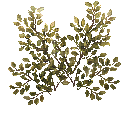
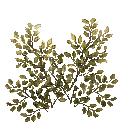
added a different color for euro beech

diff --git a/CityBuildingGame/rendering/renderer.h b/CityBuildingGame/rendering/renderer.h
@@ -31,6 +31,7 @@ public:
 	InstancedModel* instanced_model_pine;
 	InstancedModel* instanced_model_toona;
 	InstancedModel* instanced_model_euroBeech;
+	InstancedModel* instanced_model_euroBeech2;
 	InstancedModel* instanced_model_oak;
 	InstancedModel* instanced_model_dwelling;
 	InstancedModel* instanced_model_lumberjack_hut;
@@ -72,10 +73,11 @@ public:
 		model_path = Path + "/../models/toona/toona.dae";
 		instanced_model_toona = new InstancedModel(model_path);
 
-		//model_path = Path + "/../models/euroBeech/euroBeech.dae";
-		//instanced_model_euroBeech = new InstancedModel(model_path);
 		model_path = Path + "/../models/euro_beech/euro_beech.dae";
 		instanced_model_euroBeech = new InstancedModel(model_path);
+
+		model_path = Path + "/../models/euro_beech/euro_beech2.dae";
+		instanced_model_euroBeech2 = new InstancedModel(model_path);
 
 		model_path = Path + "/../models/oak/oak.dae";
 		instanced_model_oak = new InstancedModel(model_path);
@@ -202,6 +204,7 @@ private:
 		instanced_model_pine->Draw(*shader, renderBuffer->pineModels);
 		instanced_model_oak->Draw(*shader, renderBuffer->oakModels);
 		instanced_model_euroBeech->Draw(*shader, renderBuffer->euroBeechModels);
+		instanced_model_euroBeech2->Draw(*shader, renderBuffer->euroBeech2Models);
 		instanced_model_toona->Draw(*shader, renderBuffer->toonaModels);
 		instanced_model_lumberjack_hut->Draw(*shader, renderBuffer->lumberjackHutModels);
 		instanced_model_dwelling->Draw(*shader, renderBuffer->dwellingModels_growth1);

diff --git a/CityBuildingGame/terrain/map_generator.cpp b/CityBuildingGame/terrain/map_generator.cpp
@@ -175,11 +175,22 @@ void MapGenerator::generateTrees()
 			}
 			else if (chosenTree <= 2 && isEuroBeech)
 			{
-				grid->gridUnits[i][j]->objects.push_back(
-					new EuroBeech(glm::vec3(posX, posY, grid->GetHeight(posX, posY)),
-					           glm::vec3(scale * TREE_SCALE_FACTOR, scale * TREE_SCALE_FACTOR,
-					                     scale * TREE_SCALE_FACTOR),
-					           glm::vec3(1.5707963f, 0, rotation(gen))));
+				float which_model_rand = static_cast <float> (rand()) / static_cast <float> (RAND_MAX);
+
+				if (which_model_rand < 0.5f) {
+					grid->gridUnits[i][j]->objects.push_back(
+						new EuroBeech(glm::vec3(posX, posY, grid->GetHeight(posX, posY)),
+							glm::vec3(scale * TREE_SCALE_FACTOR, scale * TREE_SCALE_FACTOR,
+								scale * TREE_SCALE_FACTOR),
+							glm::vec3(1.5707963f, 0, rotation(gen))));
+				}
+				else {
+					grid->gridUnits[i][j]->objects.push_back(
+						new EuroBeech2(glm::vec3(posX, posY, grid->GetHeight(posX, posY)),
+							glm::vec3(scale * TREE_SCALE_FACTOR, scale * TREE_SCALE_FACTOR,
+								scale * TREE_SCALE_FACTOR),
+							glm::vec3(1.5707963f, 0, rotation(gen))));
+				}
 			}
 			else if (chosenTree <= 3 && isOak)
 			{

diff --git a/CityBuildingGame/rendering/render_data.h b/CityBuildingGame/rendering/render_data.h
@@ -4,6 +4,7 @@
 #include <game_object.h>
 #include <lumberjack.h>
 #include <euro_beech.h>
+#include "euro_beech_2.h"
 #include <toona.h>
 #include <oak.h>
 #include <pine.h>
@@ -17,6 +18,7 @@ public:
 	RenderBuffer();
 	void Visit(GameObject*);
 	void Visit(EuroBeech*) override;
+	void Visit(EuroBeech2*) override;
 	void Visit(Oak*) override;
 	void Visit(Pine*) override;
 	void Visit(Toona*) override;
@@ -31,6 +33,7 @@ public:
 
 	std::vector<glm::mat4> pineModels;
 	std::vector<glm::mat4> euroBeechModels;
+	std::vector<glm::mat4> euroBeech2Models;
 	std::vector<glm::mat4> toonaModels;
 	std::vector<glm::mat4> oakModels;
 	std::vector<glm::mat4> lumberjackModels;

diff --git a/CityBuildingGame/rendering/render_data.cpp b/CityBuildingGame/rendering/render_data.cpp
@@ -13,7 +13,10 @@ void RenderBuffer::Visit(EuroBeech* obj)
 {
 	euroBeechModels.push_back(obj->model);
 }
-
+void RenderBuffer::Visit(EuroBeech2* obj)
+{
+	euroBeech2Models.push_back(obj->model);
+}
 void RenderBuffer::Visit(Oak* obj)
 {
 	oakModels.push_back(obj->model);
@@ -83,6 +86,7 @@ void RenderBuffer::ClearData()
 {
 	pineModels.clear();
 	euroBeechModels.clear();
+	euroBeech2Models.clear();
 	toonaModels.clear();
 	oakModels.clear();
 	lumberjackModels.clear();

diff --git a/CityBuildingGame/visitor.h b/CityBuildingGame/visitor.h
@@ -4,6 +4,7 @@ class Tree;
 class Oak;
 class Toona;
 class EuroBeech;
+class EuroBeech2;
 class Pine;
 class Terrain;
 class Lumberjack;
@@ -20,6 +21,7 @@ public:
 	virtual void Visit(Tree* tree) = 0;
 	virtual void Visit(Oak* oak) = 0;
 	virtual void Visit(EuroBeech* euroBeech) = 0;
+	virtual void Visit(EuroBeech2* euroBeech) = 0;
 	virtual void Visit(Pine* pine) = 0;
 	virtual void Visit(Toona* toona) = 0;
 

diff --git a/CityBuildingGame/gameObjects/euro_beech_2.h b/CityBuildingGame/gameObjects/euro_beech_2.h
@@ -1,0 +1,15 @@
+#pragma once
+#include "tree.h"
+#include "visitor.h"
+
+class EuroBeech2 : public Tree
+{
+public:
+	EuroBeech2(glm::vec3 aPosition, glm::vec3 aScale, glm::vec3 aRotation)
+		: Tree(aPosition, aScale, aRotation) { };
+
+	void Accept(Visitor& v) override
+	{
+		v.Visit(this);
+	};
+};

diff --git a/CityBuildingGame/grid.h b/CityBuildingGame/grid.h
@@ -8,6 +8,7 @@
 #include "terrain.h"
 #include "oak.h"
 #include "euro_beech.h"
+#include "euro_beech_2.h"
 #include "toona.h"
 #include "pine.h"
 #include "bone_animated.h"

diff --git a/CityBuildingGame/terrain/map_generator.h b/CityBuildingGame/terrain/map_generator.h
@@ -6,6 +6,7 @@
 #include "oak.h"
 #include "toona.h"
 #include "euro_beech.h"
+#include "euro_beech_2.h"
 #include "pine.h"
 #include "lumberjack.h"
 #include <cmath>
